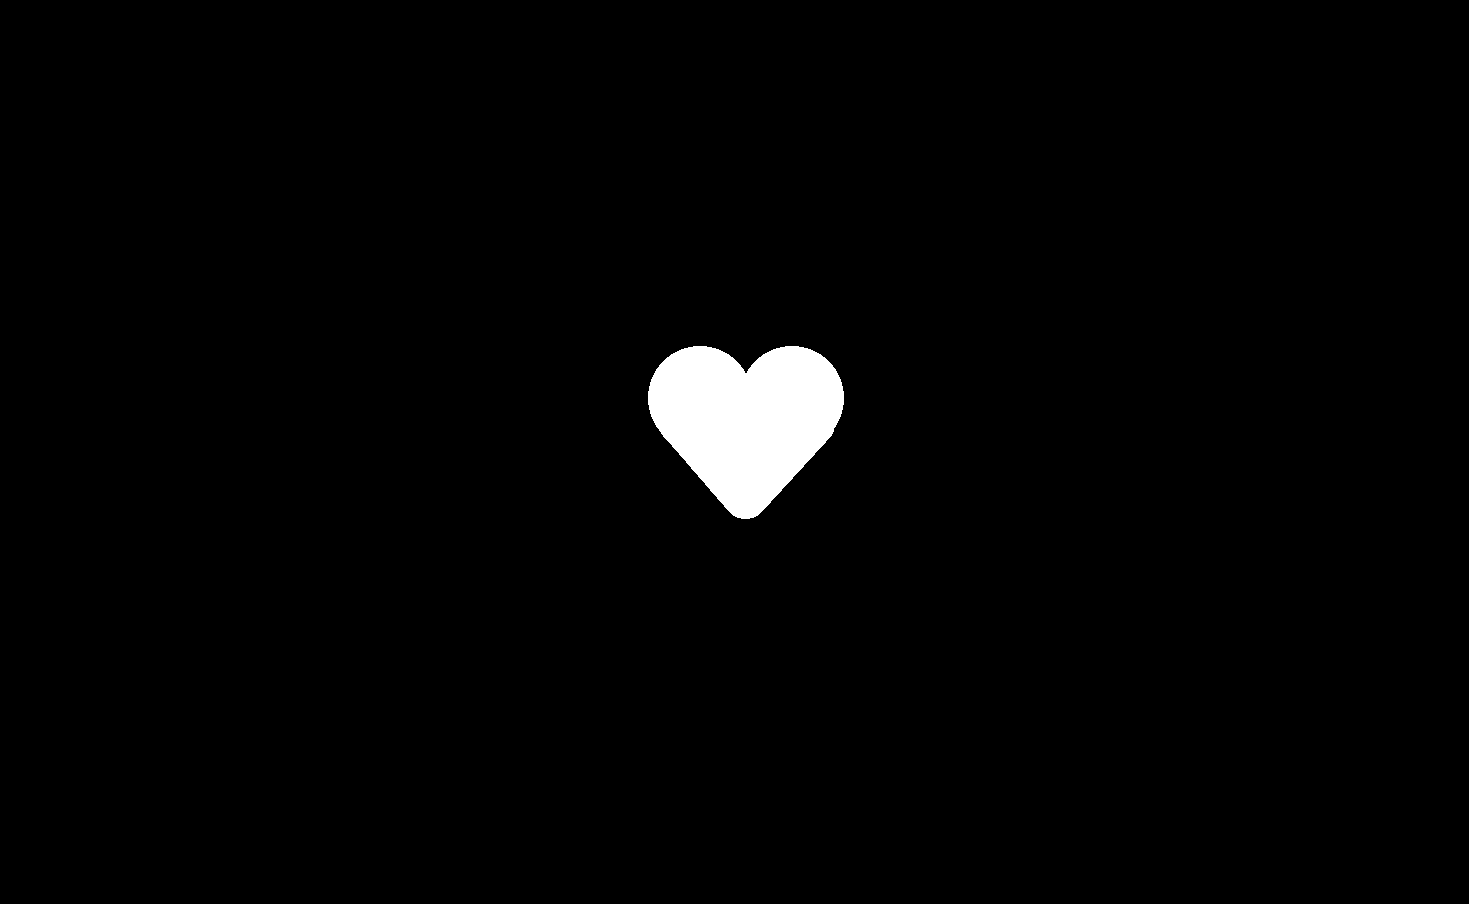
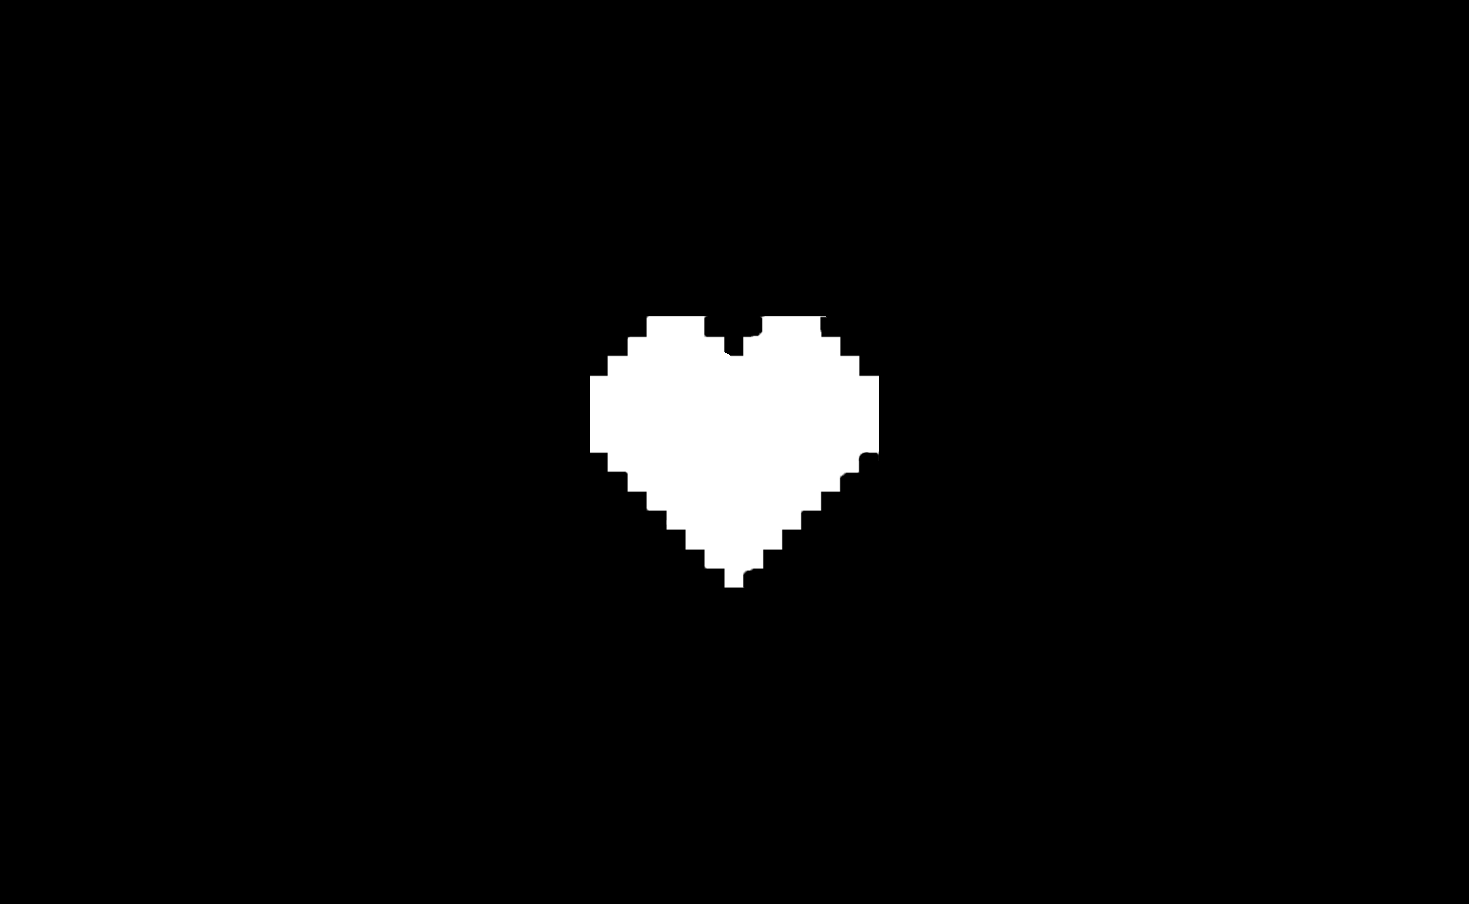
Corazon pixelado

Changed region(s): [[0.3982, 0.3407, 0.6127, 0.6504]]

diff --git a/Assets/Art/Shaders/Grayscale_Post_Process.cs b/Assets/Art/Shaders/Grayscale_Post_Process.cs
@@ -16,6 +16,9 @@ public class Grayscale_Post_Process : MonoBehaviour
     public float pixeles;
     public float scale;
     public float speed;
+    [Range(0, 1)]
+    public float heartEffect;
+    public float pixelHeart;
 
     private void Awake()
     {
@@ -33,5 +36,7 @@ public class Grayscale_Post_Process : MonoBehaviour
         mat.SetFloat("_ScaleNoise", scale);
         mat.SetFloat("_Effect", fade_in_out);
         mat.SetFloat("_Speed", speed);
+        mat.SetFloat("_HeartEffect", heartEffect);
+        mat.SetFloat("_PixelHeart", pixelHeart);
     }
 }
